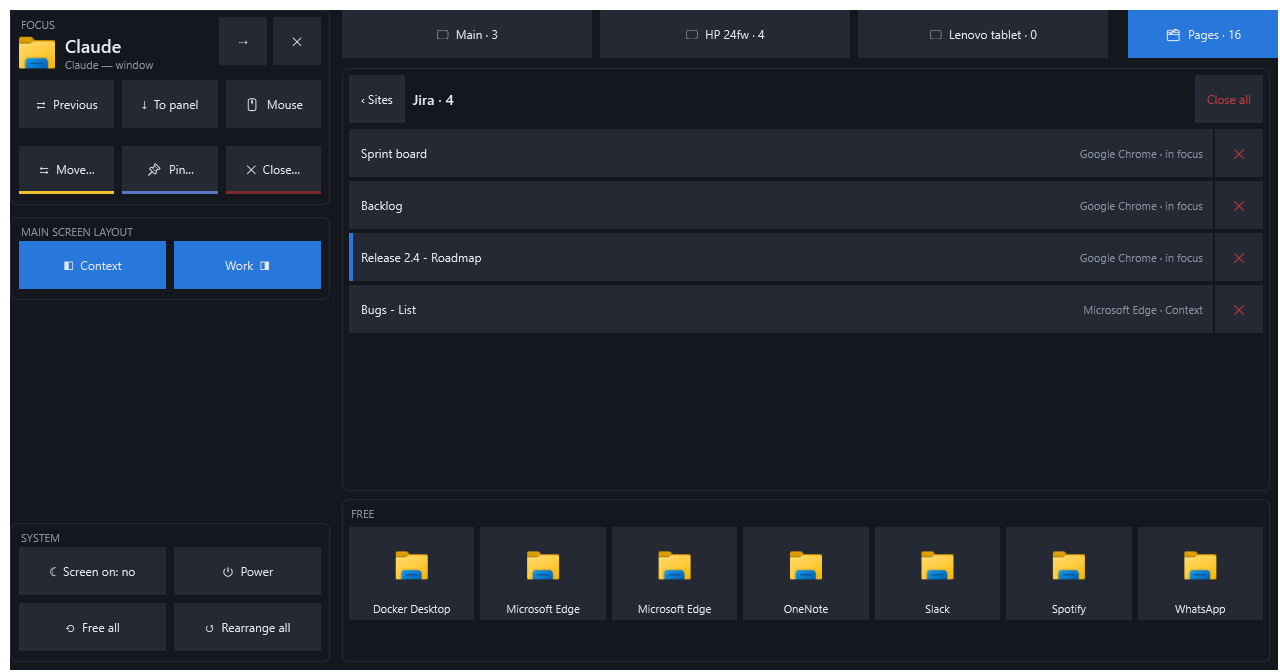
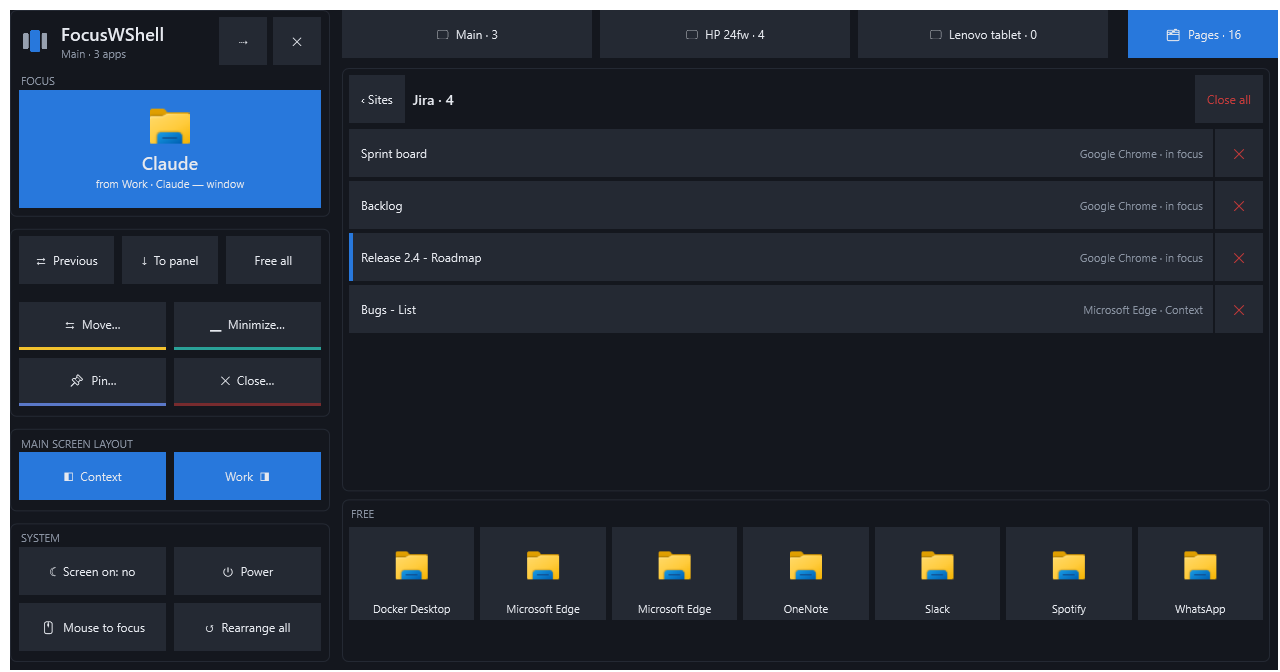
Alfa 0.3.0: el foco primero, apps en la bandeja y manual paso a paso
- Versión 0.3.0-alpha en el proyecto, el sitio, los README y el manual.
- Notas del release en inglés y español, y CHANGELOG.
- Hoja de ruta: el foco con lugar propio, Minimizar y la bandeja, hechos.
- Capturas del deck angosto y de páginas con el diseño nuevo.

diff --git a/.github/release-notes/v0.3.0-alpha.md b/.github/release-notes/v0.3.0-alpha.md
@@ -1,0 +1,83 @@
+**FocusWShell 0.3.0-alpha: the focus first, apps in the tray, and a step-by-step manual.** [Español más abajo](#español).
+
+> **It moves your windows.** If anything goes wrong, **Ctrl+Alt+Shift+Backspace** puts every window back where it was, at any time.
+
+## What's new
+
+### The deck puts the focus first
+
+- **The focus app has its own place.** On a whole tablet, it is a big tile at the top, under the FocusWShell name, with its icon, its name, the panel it comes from and its window title. Tap it for its menu. In a mode, it works like any other app, and in **Move…** it is a destination: it brings the app to the focus. In its panel, the focus app now has a blue border and ↑.
+- **New Minimize… mode** (teal): tap an app to minimize it in its panel, or bring it back if it was minimized. It turns off after one tap.
+- **Buttons rearranged:** Previous, To panel and Free all on top; the four modes in a 2×2 grid; Mouse to focus moves to System.
+- **"Park" is now called "Minimize"** everywhere.
+
+### Apps that close to the tray
+
+Codex, Discord, Teams and other apps hide their window when you close them, and keep running in the tray. Before, FocusWShell showed that hidden window itself, and some apps stayed frozen. Now:
+
+- The app shows dimmed with **▴** in its panel, and FocusWShell never shows the hidden window itself.
+- Tapping it opens the app again, which shows its own window, and it goes to its panel and to the focus. The same happens if you open it from its tray icon.
+
+### A manual for getting started
+
+- **How it works:** a picture of the idea, before and after.
+- **Getting started**, step by step from the main window, and **step-by-step guides** for a regular monitor, an ultrawide, another monitor, a tablet, scenes, shortcuts and more.
+- Screenshots of every section of the main window and of the new deck.
+
+### Fixes
+
+- In the dark theme, the list in **Windows** was white with white text.
+- The main monitor is called "main" in English, and the Spanish buttons say "foco" instead of "Centro".
+
+## Install or update
+
+1. Download `FocusWShell-0.3.0-alpha-win-x64.zip` below.
+2. Extract it to a **new** folder and double-click **install.cmd**. If an earlier version is open, the installer closes it first (putting your windows back) and keeps your settings.
+
+Windows 10 (2004) or 11, 64-bit. No administrator rights; .NET is included. The files are not signed: if Windows shows *"Windows protected your PC"*, choose **More info → Run anyway**. Check the download with the `.sha256` file.
+
+New to FocusWShell? Start with **[Getting started](https://proteo5.github.io/FocusWShell/first-steps/)**. Known limitations: see [Known limitations](https://proteo5.github.io/FocusWShell/limitations/). Please report problems and ideas in [Issues](https://github.com/proteo5/FocusWShell/issues).
+
+---
+
+## Español
+
+**FocusWShell 0.3.0-alpha: el foco primero, apps en la bandeja y un manual paso a paso.**
+
+> **Mueve tus ventanas.** Si algo sale mal, **Ctrl+Alt+Mayús+Retroceso** devuelve todas las ventanas a su sitio, en cualquier momento.
+
+### Novedades
+
+#### El deck pone el foco primero
+
+- **La app del foco tiene su lugar propio.** En la tablet entera es un tile grande arriba, bajo el nombre de FocusWShell, con su icono, su nombre, el panel del que viene y el título de su ventana. Tócala para ver su menú. En un modo funciona como cualquier otra app, y en **Mover…** es destino: lleva la app al foco. En su panel, la app del foco ahora lleva un borde azul y ↑.
+- **Nuevo modo Minimizar…** (verde azulado): toca una app para minimizarla en su panel, o para traerla de vuelta si ya estaba minimizada. Se apaga después de un toque.
+- **Botones reacomodados:** Anterior, Al panel y Liberar todas arriba; los cuatro modos en 2×2; Ratón al foco pasa a Sistema.
+- **«Estacionar» ahora se llama «Minimizar»** en todos lados.
+
+#### Apps que se cierran a la bandeja
+
+Codex, Discord, Teams y otras apps ocultan su ventana al cerrarlas y siguen abiertas en la bandeja. Antes FocusWShell mostraba esa ventana oculta por su cuenta, y algunas apps quedaban congeladas. Ahora:
+
+- La app sale atenuada con **▴** en su panel, y FocusWShell nunca muestra la ventana oculta por su cuenta.
+- Al tocarla se abre la app otra vez, que muestra su propia ventana, y va a su panel y al foco. Lo mismo si la abres desde su icono de la bandeja.
+
+#### Un manual para empezar
+
+- **Cómo funciona:** un dibujo de la idea, antes y después.
+- **Primeros pasos**, paso a paso desde la ventana principal, y **guías paso a paso** para un monitor normal, un ultrawide, otro monitor, una tablet, escenas, atajos y más.
+- Capturas de cada sección de la ventana principal y del deck nuevo.
+
+#### Correcciones
+
+- En el tema oscuro, la lista de **Ventanas** salía blanca con el texto blanco.
+- El monitor principal se llama «main» en inglés, y los botones en español dicen «foco» en lugar de «Centro».
+
+### Instalar o actualizar
+
+1. Descarga `FocusWShell-0.3.0-alpha-win-x64.zip` más abajo.
+2. Descomprímelo en una carpeta **nueva** y haz doble clic en **install.cmd**. Si hay una versión anterior abierta, el instalador la cierra antes (devolviendo tus ventanas) y conserva tu configuración.
+
+Windows 10 (2004) u 11, de 64 bits. Sin permisos de administrador; .NET va incluido. Los archivos no están firmados: si Windows muestra *«Windows protegió tu PC»*, elige **Más información → Ejecutar de todas formas**. Comprueba la descarga con el archivo `.sha256`.
+
+¿Nuevo en FocusWShell? Empieza por **[Primeros pasos](https://proteo5.github.io/FocusWShell/es/primeros-pasos/)**. Limitaciones conocidas: ver [Limitaciones conocidas](https://proteo5.github.io/FocusWShell/es/limitaciones/). Reporta problemas e ideas en [Issues](https://github.com/proteo5/FocusWShell/issues).

diff --git a/CHANGELOG.md b/CHANGELOG.md
@@ -4,7 +4,9 @@ All notable changes to FocusWShell. Each release has its notes in [`.github/rele
 
 Todos los cambios importantes de FocusWShell. Cada versión tiene sus notas en [`.github/release-notes/`](.github/release-notes/).
 
-## Unreleased / Sin publicar
+## 0.3.0-alpha
+
+A deck that puts the focus first, apps in the tray, and a step-by-step manual. / Un deck que pone el foco primero, apps en la bandeja y un manual paso a paso.
 
 - Manual: a picture of how it works, a step-by-step getting started from the main window, step-by-step guides, and screenshots of every section of the main window. / Manual: un dibujo de cómo funciona, primeros pasos paso a paso desde la ventana principal, guías paso a paso y capturas de cada sección de la ventana principal.
 - Fixed: in the dark theme, the list in Windows was white with white text. / Corregido: en el tema oscuro, la lista de Ventanas salía blanca con el texto blanco.
@@ -13,6 +15,8 @@ Todos los cambios importantes de FocusWShell. Cada versión tiene sus notas en [
 - New Minimize… mode in the deck (teal), and the four modes in a 2×2 grid. Free all moves up with Previous and To panel; Mouse to focus moves to System. / Nuevo modo Minimizar… en el deck (verde azulado), y los cuatro modos en una cuadrícula de 2×2. Liberar todas sube junto a Anterior y Al panel; Ratón al foco pasa a Sistema.
 - "Park" is now called "Minimize" everywhere. / «Estacionar» ahora se llama «Minimizar» en todos lados.
 - The main monitor is called "main" in English, and the Spanish buttons say "foco" instead of "Centro". / El monitor principal se llama «main» en inglés, y los botones en español dicen «foco» en lugar de «Centro».
+
+Notes / Notas: [v0.3.0-alpha](.github/release-notes/v0.3.0-alpha.md)
 
 ## 0.2.0-alpha
 

diff --git a/docs/05-hoja-de-ruta.md b/docs/05-hoja-de-ruta.md
@@ -56,6 +56,7 @@ Objetivo: manejar el escritorio por paneles propios y vistas, con un deck opcion
 5. **Páginas de los navegadores** en el deck: las pestañas de todas las ventanas de Chrome y Edge agrupadas por sitio, para llevar una al frente o cerrarla (spike S12, ver [riesgos](04-riesgos-y-spikes.md)). **Hecho.**
 6. **La disposición del principal como columnas que se prenden y apagan**, para monitores normales y ultrawide, con Solo foco ([ADR 0012, enmienda](adr/0012-vistas-posicion-del-foco.md#enmienda-2026-11-12-la-disposición-del-principal-son-columnas-que-se-prenden-y-apagan)). **Hecho**, sin los anchos fijos.
 7. **La ventana principal, moderna**, con WPF-UI: navegación lateral, Inicio con el mapa de monitores, panel aplicado al momento, tema claro u oscuro y «Acerca de» ([ADR 0017](adr/0017-ventana-principal-wpf-ui.md)). **Hecho** (0.2.0-alpha).
+8. **El foco con lugar propio en el deck**, el modo Minimizar y las apps que se cierran a la bandeja ([ADR 0013, enmienda](adr/0013-deck-superficie-de-control.md#enmienda-el-lugar-del-foco-y-el-modo-minimizar-2026-11-13), [ADR 0018](adr/0018-apps-en-la-bandeja.md)). **Hecho** (0.3.0-alpha).
 
 Criterio de salida: una semana de uso diario cambiando de vista y llevando apps al foco desde el deck, sin tocar los atajos.
 

diff --git a/site/es/comentarios.md b/site/es/comentarios.md
@@ -12,7 +12,7 @@ permalink: /es/comentarios/
 
 Abre un issue en [github.com/proteo5/FocusWShell/issues](https://github.com/proteo5/FocusWShell/issues). Ayuda mucho incluir:
 
-- **La versión:** la primera línea del menú de la bandeja o General → Acerca de, por ejemplo *FocusWShell 0.2.0-alpha*.
+- **La versión:** la primera línea del menú de la bandeja o General → Acerca de, por ejemplo *FocusWShell 0.3.0-alpha*.
 - **Tus monitores:** cuántos, cuál es el principal, su resolución y su escala (Configuración → Sistema → Pantalla).
 - **Qué hiciste y qué pasó,** paso a paso.
 - **`errors.log`,** si existe, en `%LOCALAPPDATA%\FocusWShell`.

diff --git a/site/feedback.md b/site/feedback.md
@@ -12,7 +12,7 @@ permalink: /feedback/
 
 Open an issue at [github.com/proteo5/FocusWShell/issues](https://github.com/proteo5/FocusWShell/issues). It helps a lot to include:
 
-- **The version:** the first line of the tray menu or General → About, for example *FocusWShell 0.2.0-alpha*.
+- **The version:** the first line of the tray menu or General → About, for example *FocusWShell 0.3.0-alpha*.
 - **Your monitors:** how many, which one is the main one, their resolution and scaling (Settings → System → Display).
 - **What you did and what happened,** step by step.
 - **`errors.log`,** if it exists, in `%LOCALAPPDATA%\FocusWShell`.

diff --git a/site/es/instalar.md b/site/es/instalar.md
@@ -30,7 +30,7 @@ El instalador copia FocusWShell a `%LOCALAPPDATA%\Programs\FocusWShell`, lo aña
 Los archivos todavía no están firmados, así que Windows puede avisarte la primera vez, porque vienen de internet. Elige **Más información → Ejecutar de todas formas**. Puedes comprobar la descarga con el archivo `.sha256` que se publica junto al zip:
 
 ```powershell
-Get-FileHash .\FocusWShell-0.2.0-alpha-win-x64.zip -Algorithm SHA256
+Get-FileHash .\FocusWShell-0.3.0-alpha-win-x64.zip -Algorithm SHA256
 ```
 
 ## Iniciar con Windows

diff --git a/README.es.md b/README.es.md
@@ -32,7 +32,7 @@ Una ventana sólo cambia de lugar cuando tú lo decides. Hacer clic en el chat o
 
 ## Instalar
 
-1. Descarga `FocusWShell-0.2.0-alpha-win-x64.zip` desde [Releases](https://github.com/proteo5/FocusWShell/releases).
+1. Descarga `FocusWShell-0.3.0-alpha-win-x64.zip` desde [Releases](https://github.com/proteo5/FocusWShell/releases).
 2. Descomprime todo el zip y haz doble clic en **install.cmd**.
 3. FocusWShell se abre y aparece en la bandeja, junto al reloj. También está en el menú Inicio.
 

diff --git a/site/install.md b/site/install.md
@@ -30,7 +30,7 @@ The installer copies FocusWShell to `%LOCALAPPDATA%\Programs\FocusWShell`, adds 
 The files are not signed yet, so Windows may warn you the first time, because they come from the internet. Choose **More info → Run anyway**. You can check the download against the `.sha256` file published next to the zip:
 
 ```powershell
-Get-FileHash .\FocusWShell-0.2.0-alpha-win-x64.zip -Algorithm SHA256
+Get-FileHash .\FocusWShell-0.3.0-alpha-win-x64.zip -Algorithm SHA256
 ```
 
 ## Start with Windows

diff --git a/README.md b/README.md
@@ -32,7 +32,7 @@ A window only changes place when you decide. Clicking the chat or getting a noti
 
 ## Install
 
-1. Download `FocusWShell-0.2.0-alpha-win-x64.zip` from [Releases](https://github.com/proteo5/FocusWShell/releases).
+1. Download `FocusWShell-0.3.0-alpha-win-x64.zip` from [Releases](https://github.com/proteo5/FocusWShell/releases).
 2. Extract the whole zip and double-click **install.cmd**.
 3. FocusWShell opens and shows up in the tray, next to the clock. It is also in the Start menu.
 
